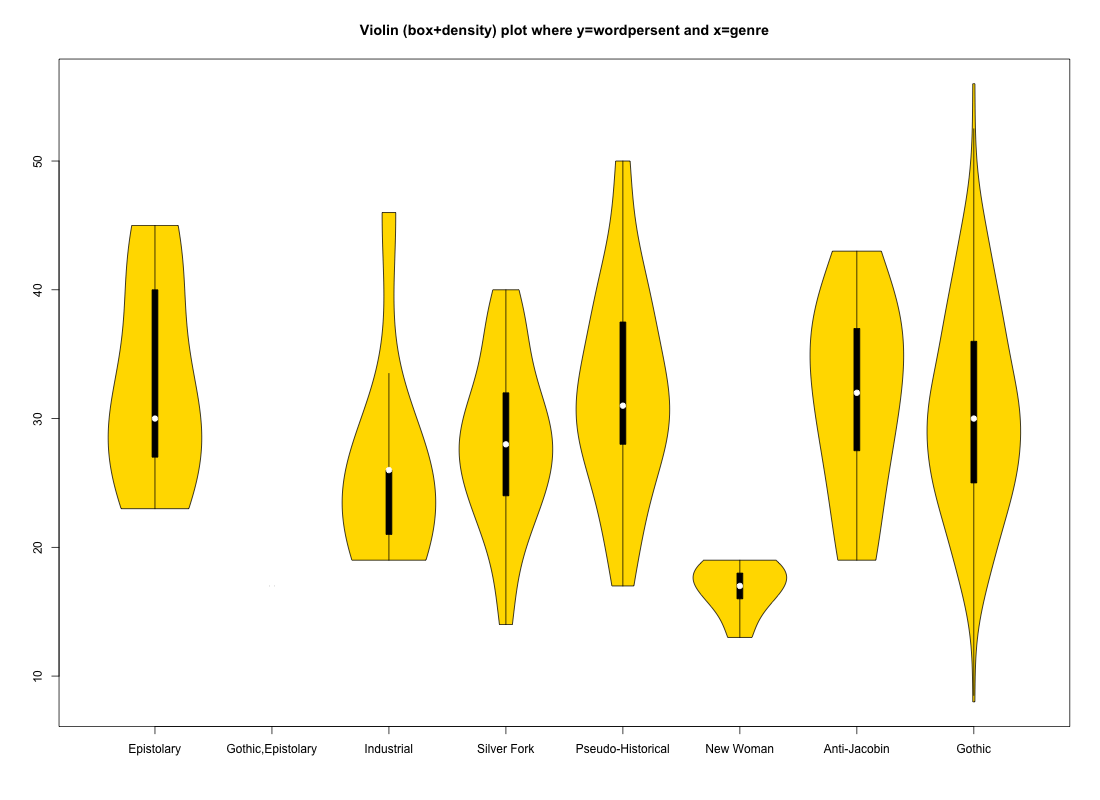
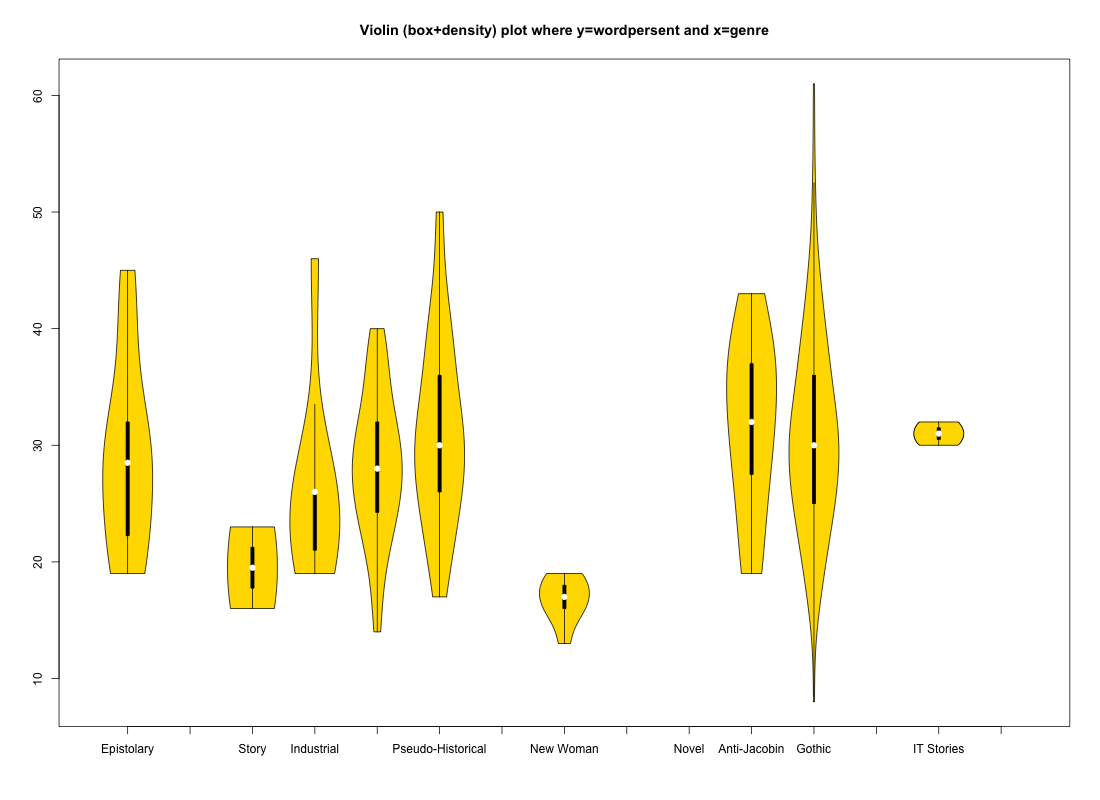
onward

diff --git a/rpyd2.py b/rpyd2.py
@@ -9,7 +9,7 @@ from rpy2 import robjects as ro
 r = ro.r
 from rpy2.robjects.packages import importr
 import rpy2.robjects.lib.ggplot2 as ggplot2
-
+grdevices = importr('grDevices')
 
 
 class InputNotRecognizedError(Exception):
@@ -401,6 +401,9 @@ class RpyD2():
 		xdat=self.col(xcol)
 		for rownum in range(len(ydat)):
 			key=xdat[rownum]
+			if type(key)==type(''):
+				key=key.strip()
+			if not key: continue
 			val=ydat[rownum]
 			try:
 				vectors[key].append(val)
@@ -415,15 +418,62 @@ class RpyD2():
 				vectors[k]=ro.StrVector(v)
 				if self.factor:
 					vectors[k]=ro.FactorVector(vectors[k])
-		
 				
 		return vectors
 		
 	def _get_fn(self,x,y):
 		return '-by-'.join([y,x])
 	
-	def vioplot(self,fn=None,x='x',y='y',w=1100,h=800):
+	
+	def boxplot(self,fn=None,x=None,y=None,main=None,xlab=None,ylab=None,ggplot=False,w=1100,h=800):
+		if not (x and y):
+			self._call_remaining('boxplot',x=x,y=y)
+			return
+		
+		
+		if ggplot:
+			self.plot(fn=fn,x=x,y=y,w=w,h=h,title=main,point=False,smooth=False,boxplot2=True,col=x,group=x)
+			return
+		if fn==None: fn='boxplot.'+self._get_fn(x,y)+'.png'
+		if not main: main=fn
+		if not xlab: xlab=x
+		if not ylab: ylab=y
+		
+		grdevices = importr('grDevices')
+		grdevices.png(file=fn, width=w, height=h)
+		frmla=ro.Formula(y+'~'+x)
+		r['boxplot'](frmla,data=self.df,main=main,xlab=xlab,ylab=ylab)
+		
+		grdevices.dev_off()
+		print ">> saved: "+fn
+		
+		
+	def _call_remaining(self,function_name,x=None,y=None):
+		function=getattr(self,function_name)
+		if y and not x:
+			for col in self.cols:
+				if col==y: continue
+				try:
+					function(x=col,y=y)
+				except:
+					pass
+			return
+		elif x and not y:
+			for col in self.cols:
+				if col==x: continue
+				try:
+					function(x=x,y=col)
+				except:
+					pass
+			return
+		elif not x and not y:
+			return
+	
+	def vioplot(self,fn=None,x=None,y=None,w=1100,h=800):
 		"""API to the 'vioplot' R package: http://cran.r-project.org/web/packages/vioplot/index.html"""
+		if not (x and y):
+			self._call_remaining('vioplot',x=x,y=y)
+			return
 		
 		if fn==None:
 			fn='vioplot.'+self._get_fn(x,y)+'.png'
@@ -431,7 +481,7 @@ class RpyD2():
 		vectors=self.toVectors(x,y)
 
 		importr('vioplot')
-		grdevices = importr('grDevices')
+		
 		grdevices.png(file=fn, width=w, height=h)
 
 		r['vioplot'](*vectors.values(), names=vectors.keys(),col='gold')
@@ -498,28 +548,60 @@ class RpyD2():
 			print r['summary'](fit)
 		return fit
 
-
-	def aov(self, formula):
-		fit=r['aov'](formula,data=self.df)
-		
-		if self.toprint:
-			print r['summary'](fit)
-		return fit
-
-	def lm(self,ykey='y',toprint=True):
-
-		try:
+	def _get_frmla(self,formula,joiner='+'):
+		if not '~' in formula:
+			ykey=formula.strip()
 			keys=set(self.df.colnames)
 			ykeys=set([ykey])
 			xkeys=keys.difference(ykeys)
-			frmla=ykey+" ~ "+"+".join(xkeys)
-			fit=r['lm'](frmla,data=self.df)
-		except:
-			keys=set(self.q().df.colnames)
-			ykeys=set([ykey])
-			xkeys=keys.difference(ykeys)
-			frmla=ykey+" ~ "+"+".join(xkeys)
-			fit=r['lm'](frmla,data=self.q().df)
+			return ro.Formula(ykey+" ~ "+joiner.join(xkeys))
+		else:
+			return ro.Formula(formula)
+
+	# def manova(self,ys=[],xs=[],xjoin='*'):
+	# 	Y=r['cbind'](ys)
+	# 	#frmla=self._get_frmla(Y+'~'+xjoin.join(xs),joiner='*')
+	# 	frmla=ro.Formula(Y+'~'+xjoin.join(xs))
+	# 	
+	# 	print frmla
+	# 	fit=r['manova'](frmla,data=self.df)
+	# 	
+	# 	if self.toprint:
+	# 		print r['summary'](fit)
+	# 	
+	# 	return fit
+
+	def aov(self, formula, tukey=False, plot=False, fn=None, w=1100, h=800):
+		frmla=self._get_frmla(formula,joiner='*')
+		fit=r['aov'](frmla,data=self.df)
+		
+		if tukey:
+			tfit=r['TukeyHSD'](fit)
+		
+		
+		if self.toprint:
+			print r['summary'](fit)
+			if tukey:
+				print r['summary'](tfit)
+		
+		if plot:
+			if not fn:
+				fn = 'aov.'+str(formula)+'.png'
+			grdevices.png(file=fn, width=w, height=h)
+
+			r('layout(matrix(c(1,2,3,4),2,2))') # optional layout 
+			r['plot'](tfit) # diagnostic plots
+
+			grdevices.dev_off()
+			print ">> saved: "+fn
+			
+			
+		return fit
+
+	def lm(self,formula,toprint=True):
+		frmla=self._get_frmla(formula)
+		fit=r['lm'](frmla,data=self.df)
+
 		if self.toprint:
 			print r['summary'](fit)
 		return fit
